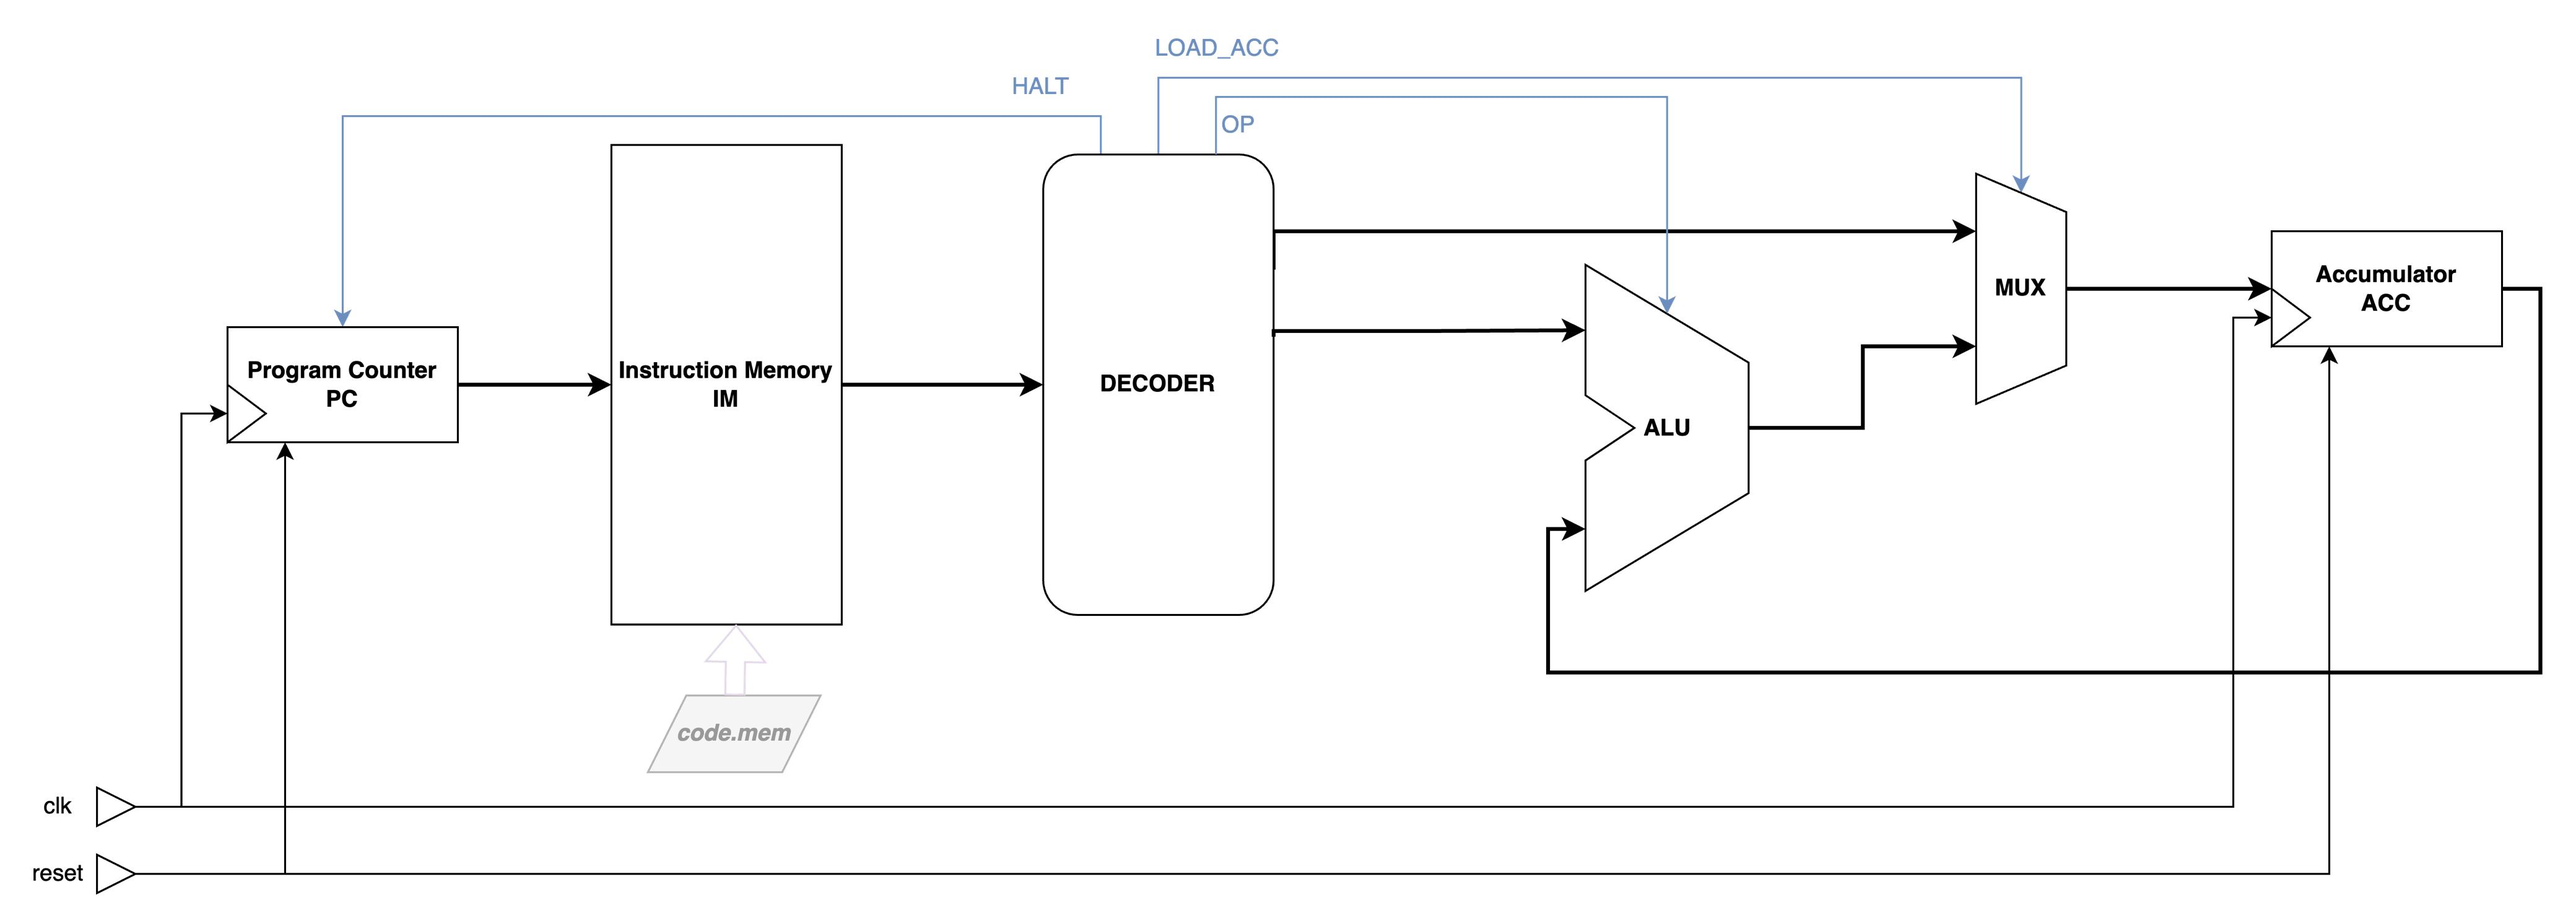
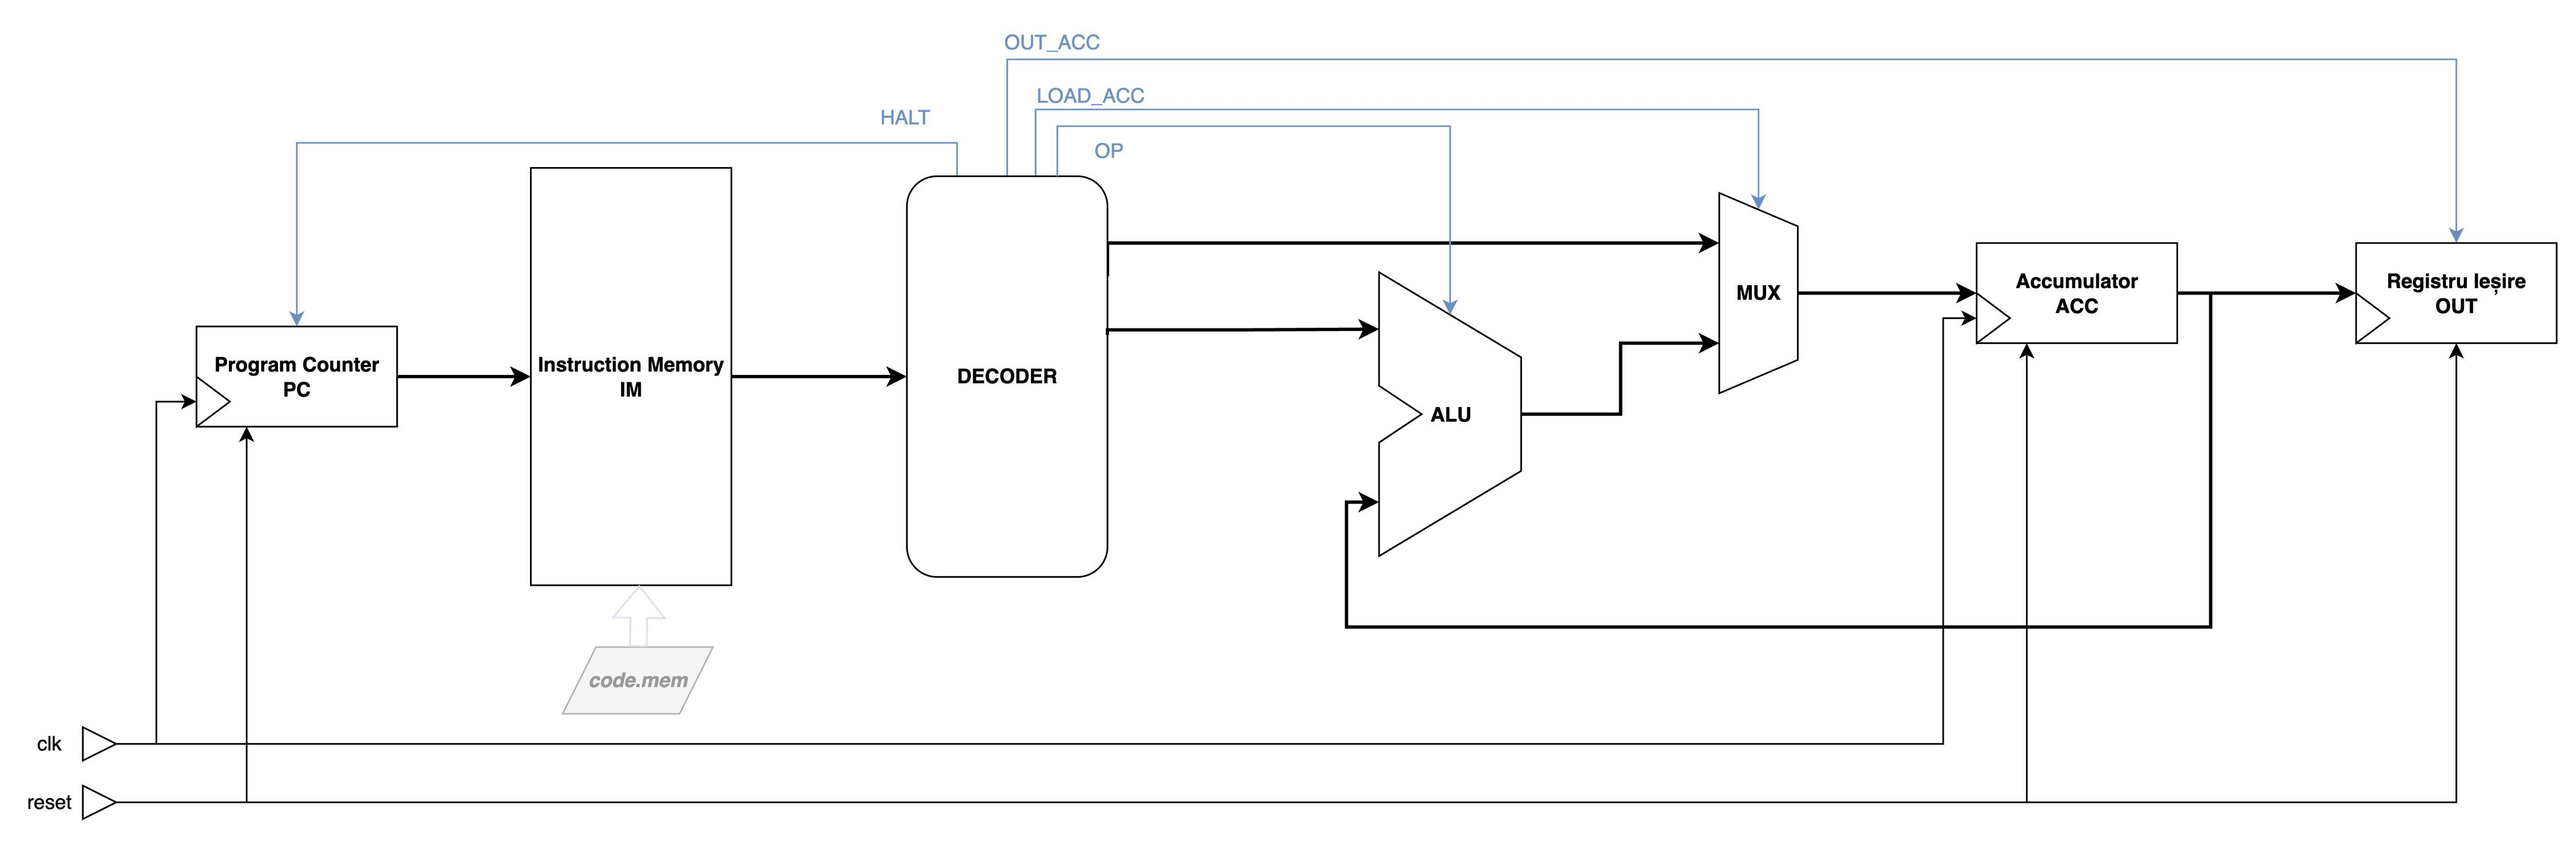
[update]: added diagram for 7-segment display

diff --git a/README.md b/README.md
@@ -219,6 +219,14 @@ In sectiunea de cerinte de mai jos, vi se cere sa implementati toate submodulele
 _Pentru un reminder asupra limbajului Verilog, va incurajam sa vizitati acest link ca si suport:
 https://www.chipverify.com/verilog/verilog-tutorial_
 
+_Pentru crearea proiectului in Vivado, folositi urmatoarea placa FPGA:_
+- _Family: Artix-7_
+- _Package: csg324_
+- _Speed: -1_
+- _Board: xc7a100tcsg324-1_
+
+![alt text](img/fpga-part.png)
+
 **1. Sa se implementeze in verilog modulul ALU al procesorului SAP1, ce primeste ca inputuri doua date pe 6 biti, si un bit pentru selectarea operatiei (adunare/scadere), si are ca output un alt semnal pe 6 biti ce reprezinta rezultatul operatiei.**
 
 Nu ne intereseaza in acest moment detalii precum carry/overflow, sau daca datele reprezinta numere cu semn. Le vom considera unsigned.
@@ -309,11 +317,11 @@ endmodule
 
 **5. (BONUS) Implementati procesorul intr-un FPGA, folosind o freceventa a ceasului de 1Hz (printr-un divizor de ceas), si afisati valoarea semnalului **acc** pe un display cu 7 segmente.**
 
+![alt text](img/7segment-diagram.png)
+
 Ca si reminder, va lasam mai jos cateva portiuni folosite la laboratorul de SOC de anul trecut pentru afisarea unei valori de 6 biti pe un display cu 7 segmente. Evident, acestea trebuie adaptate pentru designul procesorului nostru care trebuie sa afiseze o singura valoare pe 6 biti.
 
 La [final](#template-xdc-nexys7) aveti si un template de fisier XDC pentru placa FPGA Nexys7 pe care o avem in cadrul laboratorului.
-
-![alt text](img/image-2.png)
 
 ![alt text](img/image-1.png)
 
